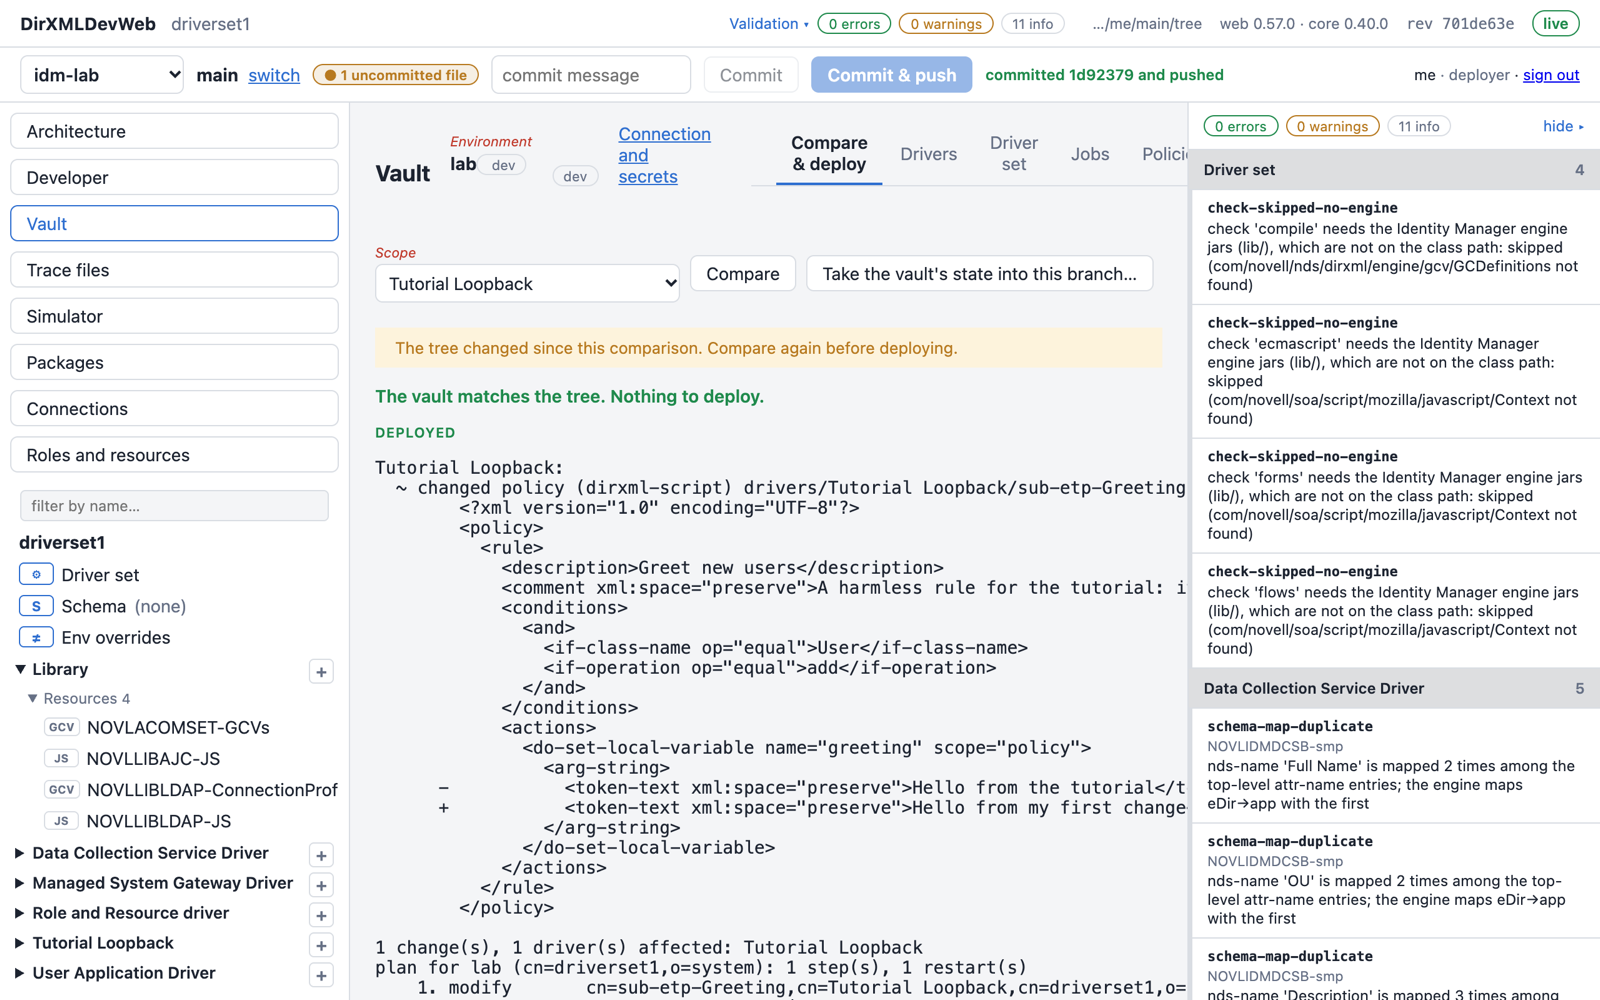
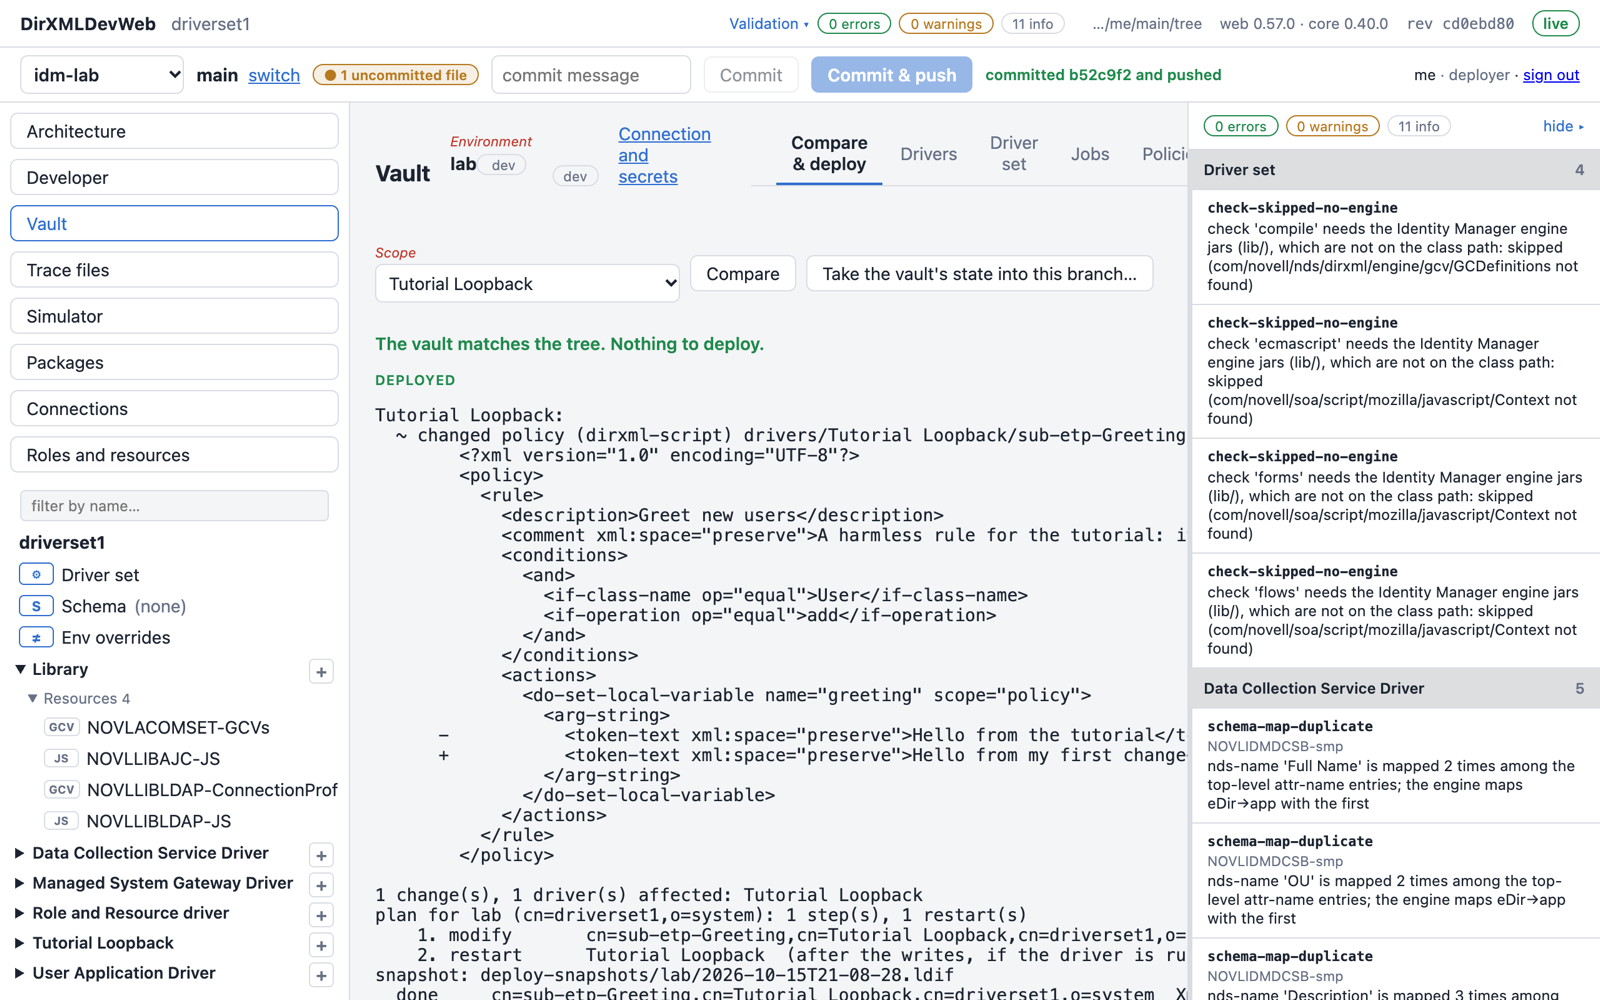
A deploy no longer makes its own comparison stale; commit the deploy record (#128)
Every vault write appends to deploy-log/<env>.jsonl. The watcher counted
it as a tree change, so right after a deploy the page said the tree
changed since the comparison and disabled Plan the deploy. The deploy
record no longer moves the revision (as core's treeDirty already
treats it); the commit bar refreshes after every vault write instead.

Under a deploy's or rollback's result, Commit the deploy record commits
deploy-log/ alone (git commit with a pathspec), leaving other work
uncommitted. The tutorial's last step uses it, with new screenshots.

Closes #128

Changed region(s): [[0.2188, 0.31, 0.75, 1.0], [0.6562, 0.062, 0.7812, 0.093], [0.9062, 0.0, 0.9375, 0.031]]

diff --git a/web/src/components/VaultView.tsx b/web/src/components/VaultView.tsx
@@ -1,7 +1,7 @@
 import { DiffEditor } from "@monaco-editor/react";
 import { monacoTheme } from "../monaco";
 import { Fragment, useEffect, useState } from "react";
-import { ApiError, api } from "../api";
+import { ApiError, GIT_CHANGED, api } from "../api";
 import { EnvPicker, useEnvironment } from "../env";
 import { CachePanel } from "./CachePanel";
 import { EventsView } from "./EventsView";
@@ -114,6 +114,37 @@ function VaultError({ message, onFix }: { message: string; onFix: () => void }) 
         </>
       )}
     </div>
+  );
+}
+
+/**
+ * A deploy or a rollback appends a line to deploy-log/<env>.jsonl (who, when, which commit, the snapshot, the outcome),
+ * which is committed with the tree so the repository says what went where (#128). Commits that file alone, whatever
+ * else is uncommitted; the commit bar then offers the push.
+ */
+function RecordCommit({ message }: { message: string }) {
+  const [state, setState] = useState<{ ok: boolean; text: string } | null>(null);
+  const [busy, setBusy] = useState(false);
+  const commit = () => {
+    setBusy(true);
+    api.git
+      .commitRecord(message)
+      .then((r) => setState({ ok: true, text: r.committed ? `Committed the deploy record as ${r.hash}. Push it from the bar at the top.` : "The deploy record is already committed." }))
+      .catch((e: Error) => setState({ ok: false, text: e.message }))
+      .finally(() => (setBusy(false), window.dispatchEvent(new Event(GIT_CHANGED))));
+  };
+  return state ? (
+    <p className={state.ok ? "small ok-text" : "small err-text"} data-testid="vault-record-result">
+      {state.text}
+    </p>
+  ) : (
+    <p className="small" data-testid="vault-record">
+      Recorded in <code>deploy-log/</code>: who, when, the commit and the snapshot.{" "}
+      <button onClick={commit} disabled={busy} data-testid="vault-record-commit">
+        {busy ? "Committing…" : "Commit the deploy record"}
+      </button>{" "}
+      <span className="muted">— that file alone, as “{message}”; the rest of your work stays uncommitted.</span>
+    </p>
   );
 }
 
@@ -476,6 +507,7 @@ function Compare({ env, drivers, revision, onOpen, onFix }: { env: string; drive
             </p>
           )}
           {merged && <pre className={merged.ok ? "outcome" : "outcome err-text"}>{merged.text}</pre>}
+          {!result.refusal && (result.snapshot || result.capturedBranch) && <RecordCommit key={result.snapshot ?? result.text} message={`Deployed to ${env}${scope.length ? ` (${scope.join(", ")})` : ""}`} />}
           {result.snapshot && (
             <p className="muted small">
               Snapshot: <code>{result.snapshot}</code>{" "}
@@ -557,6 +589,7 @@ function Compare({ env, drivers, revision, onOpen, onFix }: { env: string; drive
                 The state before this rollback: <code>{rollbackResult.snapshot}</code>
               </p>
             )}
+            {!rollbackResult.refusal && rollbackResult.snapshot && <RecordCommit key={rollbackResult.snapshot ?? rollbackResult.text} message={`Rolled ${env} back`} />}
           </div>
         )}
       </div>

diff --git a/web/src/api.ts b/web/src/api.ts
@@ -78,8 +78,15 @@ async function call<T>(method: string, path: string, body?: unknown): Promise<T>
     }
     throw new ApiError(message, res.status, !!data && typeof data === "object" && "noWorkspace" in data);
   }
+  if (method !== "GET" && path.startsWith("/api/vault/")) {
+    // a vault write appends to the deploy record, which does not move the revision (#128): the commit bar asks git again
+    window.dispatchEvent(new Event(GIT_CHANGED));
+  }
   return data as T;
 }
+
+/** Fired when the workspace's git status may have changed without the tree's revision moving (the deploy record). */
+export const GIT_CHANGED = "idmweb:git-changed";
 
 const q = encodeURIComponent;
 
@@ -136,6 +143,8 @@ export const api = {
     status: () => call<GitStatus>("GET", "/api/git/status"),
     diff: (against: "head" | "base" | "upstream") => call<GitDiff>("GET", `/api/git/diff?against=${against}`),
     commit: (message: string, push: boolean) => call<{ committed: boolean; hash?: string; pushed?: boolean; message?: string }>("POST", "/api/git/commit", { message, push }),
+    /** Commit the deploy record (deploy-log/) alone, the rest of the work left uncommitted (#128). */
+    commitRecord: (message: string) => call<{ committed: boolean; hash?: string; message?: string }>("POST", "/api/git/commit", { message, push: false, record: true }),
     update: (base?: string) => call<{ merged: boolean; message: string; conflicts?: string[] }>("POST", "/api/git/update", base ? { base } : {}),
     /** Merge a captured as-found/<env>/<time> branch (vault.deploy --capture-drift) into this branch. */
     mergeCaptured: (branch: string) => call<{ merged: boolean; message: string; conflicts?: string[] }>("POST", "/api/git/merge-captured", { branch }),

diff --git a/web/src/components/RepoBar.tsx b/web/src/components/RepoBar.tsx
@@ -1,5 +1,5 @@
 import { useEffect, useState } from "react";
-import { api } from "../api";
+import { GIT_CHANGED, api } from "../api";
 import type { GitStatus, PullRequestInfo, Selection, Session, WorkspacesInfo } from "../types";
 import { PullRequestDialog } from "./PullRequestDialog";
 
@@ -64,6 +64,10 @@ export function RepoBar({ session, revision, onWorkspaceChanged, onBusy, onAddPr
     }
   };
   useEffect(load, [session.workspace, revision, hosted, project]);
+  useEffect(() => {
+    window.addEventListener(GIT_CHANGED, load);
+    return () => window.removeEventListener(GIT_CHANGED, load);
+  }, [session.workspace, hosted, project]);
   useEffect(() => setProject(session.project ?? ""), [session.project]);
 
   const run = (what: string, fn: () => Promise<{ text: string; ok: boolean }>) => {

diff --git a/src/test/java/com/pointblue/dirxml/web/GitCommitTest.java b/src/test/java/com/pointblue/dirxml/web/GitCommitTest.java
@@ -1,0 +1,50 @@
+package com.pointblue.dirxml.web;
+
+import org.junit.Rule;
+import org.junit.Test;
+import org.junit.rules.TemporaryFolder;
+
+import java.nio.charset.StandardCharsets;
+import java.nio.file.Files;
+import java.nio.file.Path;
+import java.util.List;
+import java.util.Map;
+
+import static org.junit.Assert.assertEquals;
+import static org.junit.Assert.assertFalse;
+import static org.junit.Assert.assertTrue;
+
+/** A commit of everything, or of the deploy record alone (#128). */
+public class GitCommitTest {
+
+    @Rule
+    public TemporaryFolder tmp = new TemporaryFolder();
+
+    @Test
+    public void theDeployRecordAloneLeavesTheRestOfTheWorkUncommitted() throws Exception {
+        Git git = new Git(tmp.newFolder("data").toPath(), null);
+        Path repo = tmp.newFolder("repo").toPath();
+        Path tree = repo.resolve("tree");
+        Files.createDirectories(tree);
+        Files.writeString(tree.resolve("driverset.xml"), "<driverset/>", StandardCharsets.UTF_8);
+        assertTrue(git.run(repo, "init", "-q", "-b", "main").ok());
+        assertTrue(git.commit(repo, "seed", "me", "me@localhost", false).get("committed") == Boolean.TRUE);
+
+        List<String> record = List.of("tree/" + Watcher.DEPLOY_LOG);
+        assertEquals("no record yet: nothing to commit", Boolean.FALSE, git.commit(repo, "Deployed to lab", "me", null, false, record).get("committed"));
+
+        Files.writeString(tree.resolve("driverset.xml"), "<driverset name=\"edited\"/>", StandardCharsets.UTF_8);
+        Files.createDirectories(tree.resolve("deploy-log"));
+        Files.writeString(tree.resolve("deploy-log/lab.jsonl"), "{\"env\":\"lab\"}\n", StandardCharsets.UTF_8);
+        Map<String, Object> r = git.commit(repo, "Deployed to lab", "me", null, false, record);
+        assertEquals(Boolean.TRUE, r.get("committed"));
+
+        String inCommit = git.run(repo, "show", "--name-only", "--format=", "HEAD").out.trim();
+        assertEquals("tree/deploy-log/lab.jsonl", inCommit);
+        String left = git.run(repo, "status", "--porcelain").out.trim();
+        assertTrue(left, left.endsWith("tree/driverset.xml") && !left.contains("deploy-log"));
+
+        assertEquals("the record again, unchanged: nothing to commit", Boolean.FALSE, git.commit(repo, "again", "me", null, false, record).get("committed"));
+        assertFalse(git.run(repo, "status", "--porcelain").out.isBlank());
+    }
+}

diff --git a/src/main/java/com/pointblue/dirxml/web/Git.java b/src/main/java/com/pointblue/dirxml/web/Git.java
@@ -199,15 +199,37 @@ public final class Git {
     }
 
     public Map<String, Object> commit(Path dir, String message, String authorName, String authorEmail, boolean push) throws IOException {
+        return commit(dir, message, authorName, authorEmail, push, null);
+    }
+
+    /**
+     * Commit everything uncommitted, or with {@code only} just those paths (relative to {@code dir}), leaving the
+     * rest of the work uncommitted — the deploy record after a deploy (#128).
+     */
+    public Map<String, Object> commit(Path dir, String message, String authorName, String authorEmail, boolean push, List<String> only) throws IOException {
         if (message == null || message.isBlank()) {
             throw new TreeService.BadRequest("a commit needs a message");
         }
-        must(run(dir, "add", "-A"), "stage");
-        List<String> args = new ArrayList<>(List.of("-c", "user.name=" + (authorName == null ? "DirXMLDevWeb" : authorName), "-c", "user.email=" + (authorEmail == null ? "idmweb@localhost" : authorEmail), "commit", "-m", message));
-        Result c = run(dir, args.toArray(new String[0]));
         Map<String, Object> m = new LinkedHashMap<>();
+        if (only != null && only.stream().noneMatch(p -> Files.exists(dir.resolve(p)))) {
+            m.put("committed", false);
+            m.put("message", "nothing to commit");
+            return m;
+        }
+        List<String> add = new ArrayList<>(List.of("add", "-A"));
+        if (only != null) {
+            add.add("--");
+            add.addAll(only);
+        }
+        must(run(dir, add.toArray(new String[0])), "stage");
+        List<String> args = new ArrayList<>(List.of("-c", "user.name=" + (authorName == null ? "DirXMLDevWeb" : authorName), "-c", "user.email=" + (authorEmail == null ? "idmweb@localhost" : authorEmail), "commit", "-m", message));
+        if (only != null) {
+            args.add("--");
+            args.addAll(only);
+        }
+        Result c = run(dir, args.toArray(new String[0]));
         if (!c.ok()) {
-            if (c.out.contains("nothing to commit") || c.err.contains("nothing to commit")) {
+            if (c.out.contains("nothing to commit") || c.err.contains("nothing to commit") || c.out.contains("no changes added to commit")) {
                 m.put("committed", false);
                 m.put("message", "nothing to commit");
             } else {

diff --git a/src/main/java/com/pointblue/dirxml/web/Watcher.java b/src/main/java/com/pointblue/dirxml/web/Watcher.java
@@ -15,8 +15,8 @@ import java.util.concurrent.CopyOnWriteArrayList;
 import java.util.function.Consumer;
 
 /**
- * The tree's revision: a short hash over every file's path, size and modification time. It
- * changes when anything edits the tree — this server, the CLI, an agent, an editor, git — and
+ * The tree's revision: a short hash over every file's path, size and modification time (but not
+ * {@link #DEPLOY_LOG}'s). It changes when anything edits the tree — this server, the CLI, an agent, an editor, git — and
  * that is the signal the page reloads on and the value a write must quote to prove it was
  * planned against the tree as it is now. Polled, because the JDK's file watching on macOS is
  * itself a slow poll and a tree is a few hundred small files.
@@ -25,6 +25,13 @@ public final class Watcher implements AutoCloseable {
 
     /** Directories that are not part of the tree's content. */
     static final Set<String> SKIP = Set.of(".git", "node_modules", ".dirxmldev", "deploy-snapshots");
+
+    /**
+     * The deploy record, {@code deploy-log/} at the tree's top (core {@code DeployLog}): every vault write appends
+     * to it. It is committed with the tree but is not what a deploy deploys, so it does not move the revision —
+     * otherwise a deploy would make its own comparison stale (#128). Git status still counts it.
+     */
+    static final String DEPLOY_LOG = "deploy-log";
 
     private final Path tree;
     private final long intervalMs;
@@ -100,7 +107,10 @@ public final class Watcher implements AutoCloseable {
         Files.walkFileTree(tree, new SimpleFileVisitor<>() {
             @Override
             public FileVisitResult preVisitDirectory(Path dir, BasicFileAttributes attrs) {
-                return !dir.equals(tree) && SKIP.contains(dir.getFileName().toString()) ? FileVisitResult.SKIP_SUBTREE : FileVisitResult.CONTINUE;
+                if (dir.equals(tree)) {
+                    return FileVisitResult.CONTINUE;
+                }
+                return SKIP.contains(dir.getFileName().toString()) || dir.equals(tree.resolve(DEPLOY_LOG)) ? FileVisitResult.SKIP_SUBTREE : FileVisitResult.CONTINUE;
             }
 
             @Override

diff --git a/src/main/java/com/pointblue/dirxml/web/Api.java b/src/main/java/com/pointblue/dirxml/web/Api.java
@@ -8,6 +8,7 @@ import java.io.OutputStream;
 import java.net.URLDecoder;
 import java.nio.charset.StandardCharsets;
 import java.util.LinkedHashMap;
+import java.util.List;
 import java.util.Map;
 import java.util.concurrent.BlockingQueue;
 import java.util.concurrent.LinkedBlockingQueue;
@@ -1235,8 +1236,11 @@ public final class Api implements HttpHandler {
             switch (path) {
                 case "/api/git/commit": {
                     boolean push = Boolean.TRUE.equals(req.get("push"));
-                    Map<String, Object> r = git.commit(w.root, Json.asString(req.get("message")), session.principal.name, session.principal.email, push);
-                    audit.log(session, w, push ? "commit+push" : "commit", Map.of("message", String.valueOf(req.get("message")), "hash", String.valueOf(r.get("hash"))), "ok");
+                    // "record": just the deploy record (deploy-log/ at the tree's top), the rest of the work left uncommitted (#128)
+                    boolean record = Boolean.TRUE.equals(req.get("record"));
+                    List<String> only = record ? List.of(w.root.relativize(w.tree.resolve(Watcher.DEPLOY_LOG)).toString().replace('\\', '/')) : null;
+                    Map<String, Object> r = git.commit(w.root, Json.asString(req.get("message")), session.principal.name, session.principal.email, push, only);
+                    audit.log(session, w, (record ? "commit-deploy-record" : "commit") + (push ? "+push" : ""), Map.of("message", String.valueOf(req.get("message")), "hash", String.valueOf(r.get("hash"))), "ok");
                     return r;
                 }
                 case "/api/git/merge-captured": {

diff --git a/src/test/java/com/pointblue/dirxml/web/WatcherTest.java b/src/test/java/com/pointblue/dirxml/web/WatcherTest.java
@@ -32,6 +32,10 @@ public class WatcherTest {
         Files.writeString(tree.resolve("deploy-snapshots/stg/a.ldif"), "dn: x", StandardCharsets.UTF_8);
         assertEquals("git and snapshots are not content", r0, Watcher.signature(tree));
 
+        Files.createDirectories(tree.resolve("deploy-log"));
+        Files.writeString(tree.resolve("deploy-log/stg.jsonl"), "{\"env\":\"stg\"}\n", StandardCharsets.UTF_8);
+        assertEquals("a deploy's own record does not make its comparison stale (#128)", r0, Watcher.signature(tree));
+
         Files.createDirectories(tree.resolve("drivers/AD"));
         Files.writeString(tree.resolve("drivers/AD/driver.xml"), "<driver/>", StandardCharsets.UTF_8);
         String r1 = Watcher.signature(tree);

diff --git a/docs/tutorial.md b/docs/tutorial.md
@@ -180,13 +180,15 @@ The deploy does four things:
 
 ## 8. Commit the deploy record
 
-The top bar shows *1 uncommitted file* again, and the page says the tree changed since the
-comparison. That is the deploy's own record. Every deploy adds a line to
-`tree/deploy-log/<environment>.jsonl`, with the time, who deployed, the commit deployed, the
-snapshot taken and the outcome. Commit it like any change, so the repository records what went
-where:
+The top bar shows *1 uncommitted file* again. That is the deploy's own record: every deploy adds a
+line to `tree/deploy-log/<environment>.jsonl`, with the time, who deployed, the commit deployed,
+the snapshot taken and the outcome. The repository should record what went where, so commit it.
+Under the deploy's result, choose **Commit the deploy record**:
 
-![Committing the deploy record](screenshots/tutorial/17-commit-deploy-log.png)
+![Commit the deploy record, under the deploy's result](screenshots/tutorial/17-deploy-record.png)
+
+It commits that file alone, as *Deployed to lab (Tutorial Loopback)*. Anything else you have not
+committed stays as it was. The bar then offers **Push**: choose it so that others see the record.
 
 ## Where things are
 

diff --git a/CHANGELOG.md b/CHANGELOG.md
@@ -7,6 +7,19 @@ and this project uses [Semantic Versioning](https://semver.org/spec/v2.0.0.html)
 
 ## [Unreleased]
 
+### Fixed
+
+- After a deploy, the page no longer says "The tree changed since this comparison", which also
+  disabled Plan the deploy until the next Compare (#128). The deploy record
+  (`deploy-log/<env>.jsonl`, which every vault write appends to) no longer moves the tree's
+  revision. The commit bar still counts it, and refreshes after every vault write.
+
+### Added
+
+- **Commit the deploy record** under a deploy's or a rollback's result. It commits
+  `deploy-log/` alone, whatever else is uncommitted (`POST /api/git/commit` with `"record": true`;
+  audit action `commit-deploy-record`). The tutorial's last step uses it.
+
 ### Added
 
 - `docs/tutorial.md`: a new user's first session, from a new install without a tree to a first
